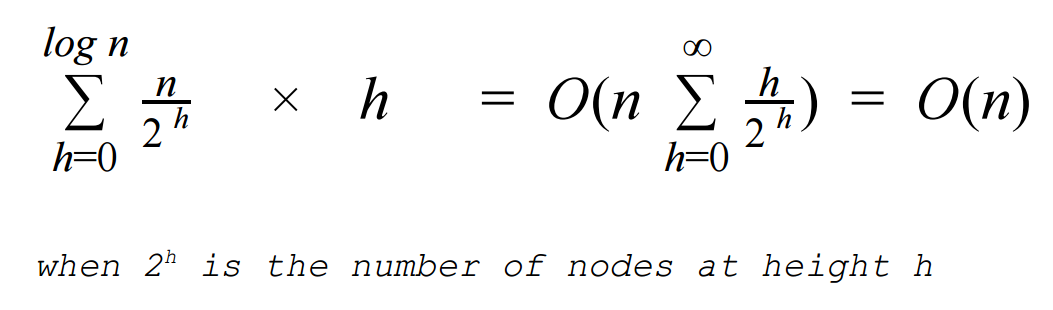
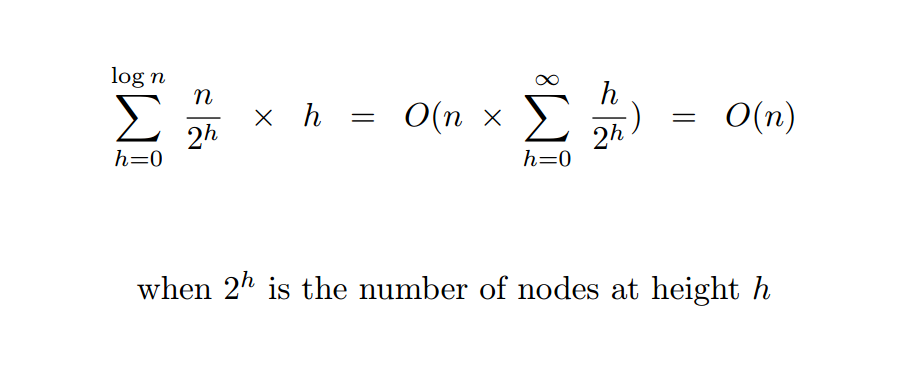
update math images in LaTex

diff --git a/doc/binary_search_tree/README.md b/doc/binary_search_tree/README.md
@@ -269,7 +269,7 @@ int main()
 Suppose a database of n items and one needs to search for a certain value. Then
 time complexity of search is **_`O(n)`_**. But what if the *n* is very large?
 
-![why_bst_00](img/why_bst_00.png)
+![why_bst](img/why_bst.png)
 
 In **Binary Search Tree**, we can **search** in **_logarithmic time O(log
 n)_**, which is much faster than linear time search. A binary search tree keeps
@@ -279,7 +279,8 @@ requires a series of **binary** (*left* or *right*) decisions.
 And here's how you get the time complexity *`O(log n)`*, which is the height of
 a binary tree of *n* elements:
 
-![why_bst_01](img/why_bst_01.png)
+![heap_height_01](img/heap_height_01.png)
+![heap_height_01](img/heap_height_01.png)
 
 <br>
 

diff --git a/doc/go_heap_priority_queue/README.md b/doc/go_heap_priority_queue/README.md
@@ -37,7 +37,8 @@ lowest level.
 Suppose a binary tree of height *h* with *n* number of nodes. Then the heap
 height would be:
 
-![heap_height](img/heap_height.png)
+![heap_height_00](img/heap_height_00.png)
+![heap_height_01](img/heap_height_01.png)
 
 Keep this in mind. This is *important* when we calculate the *time complexities*
 of data structures.
